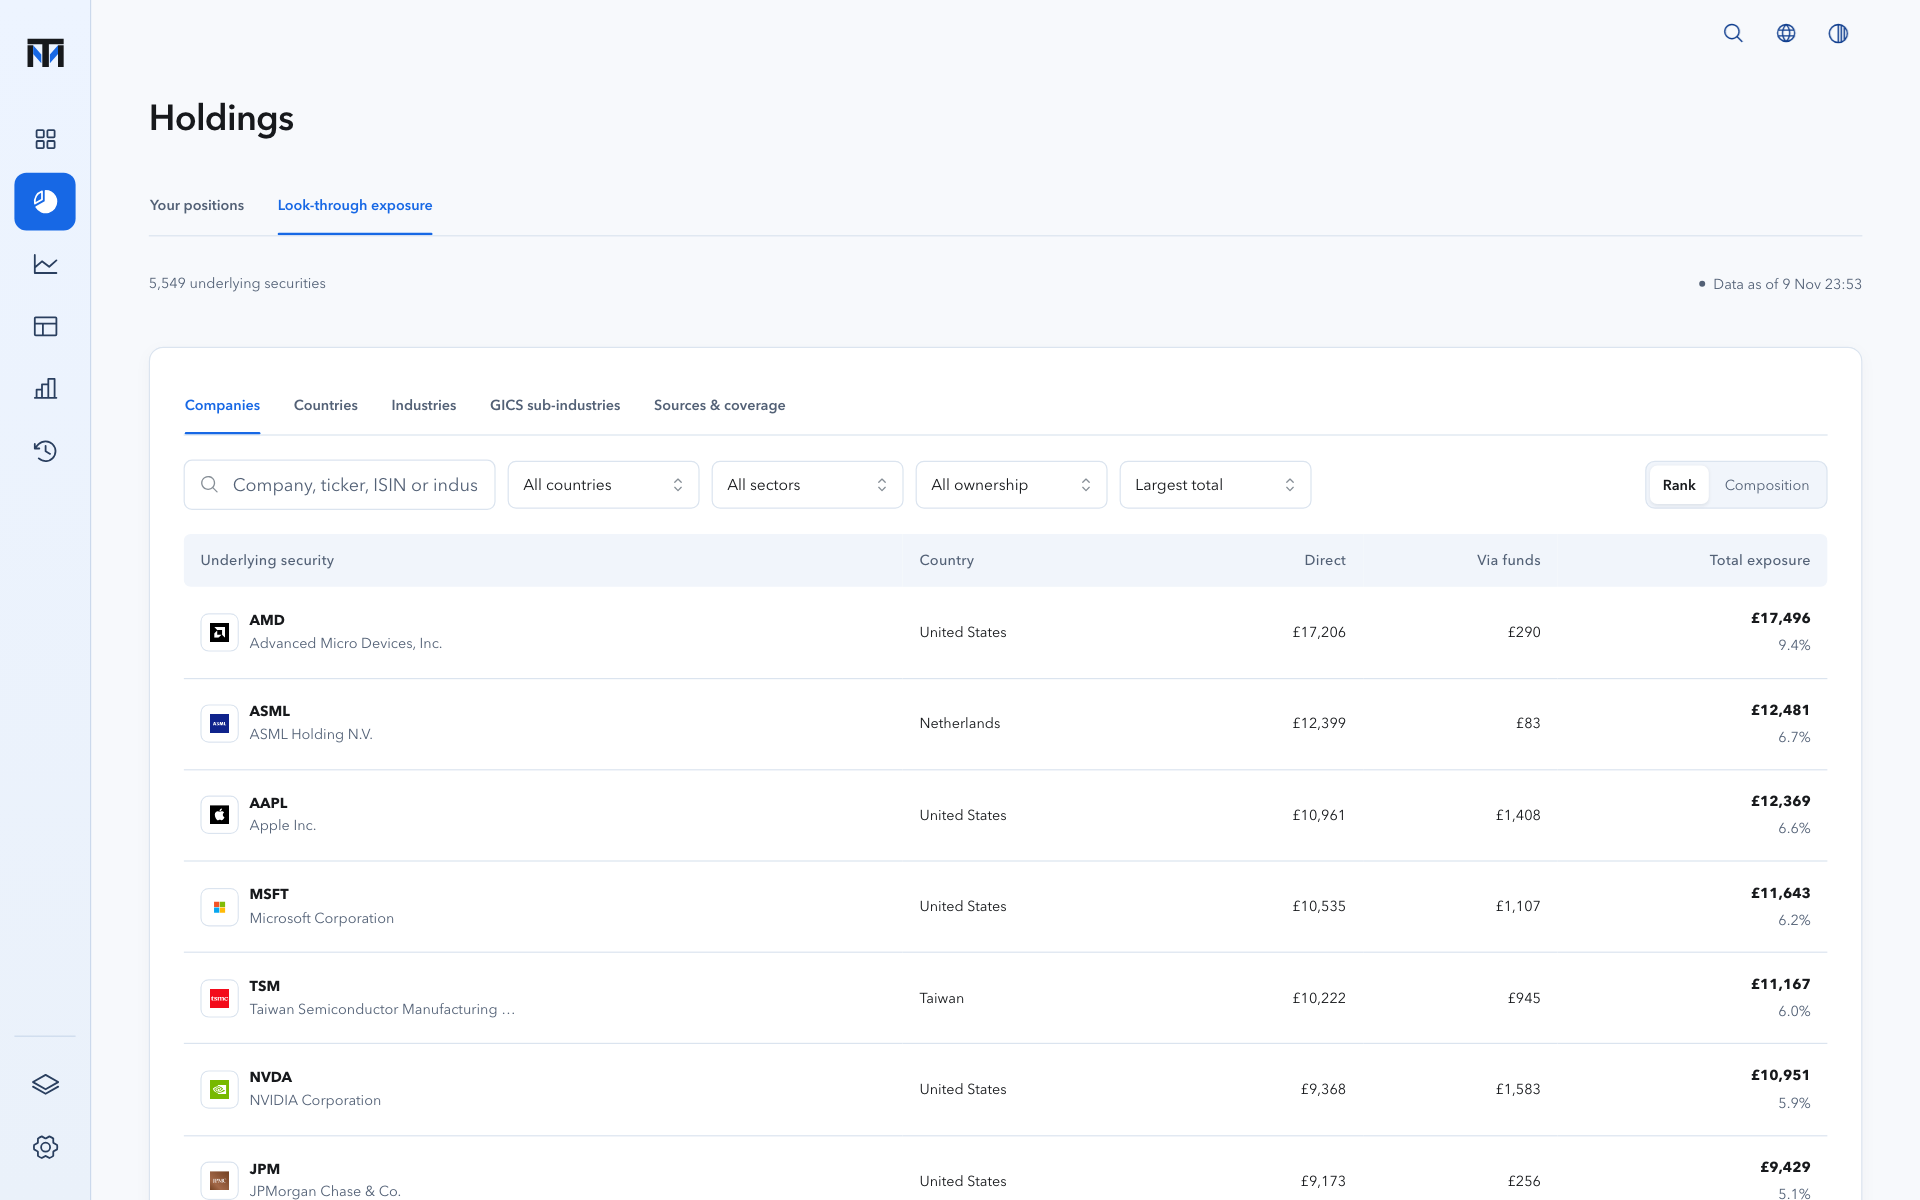
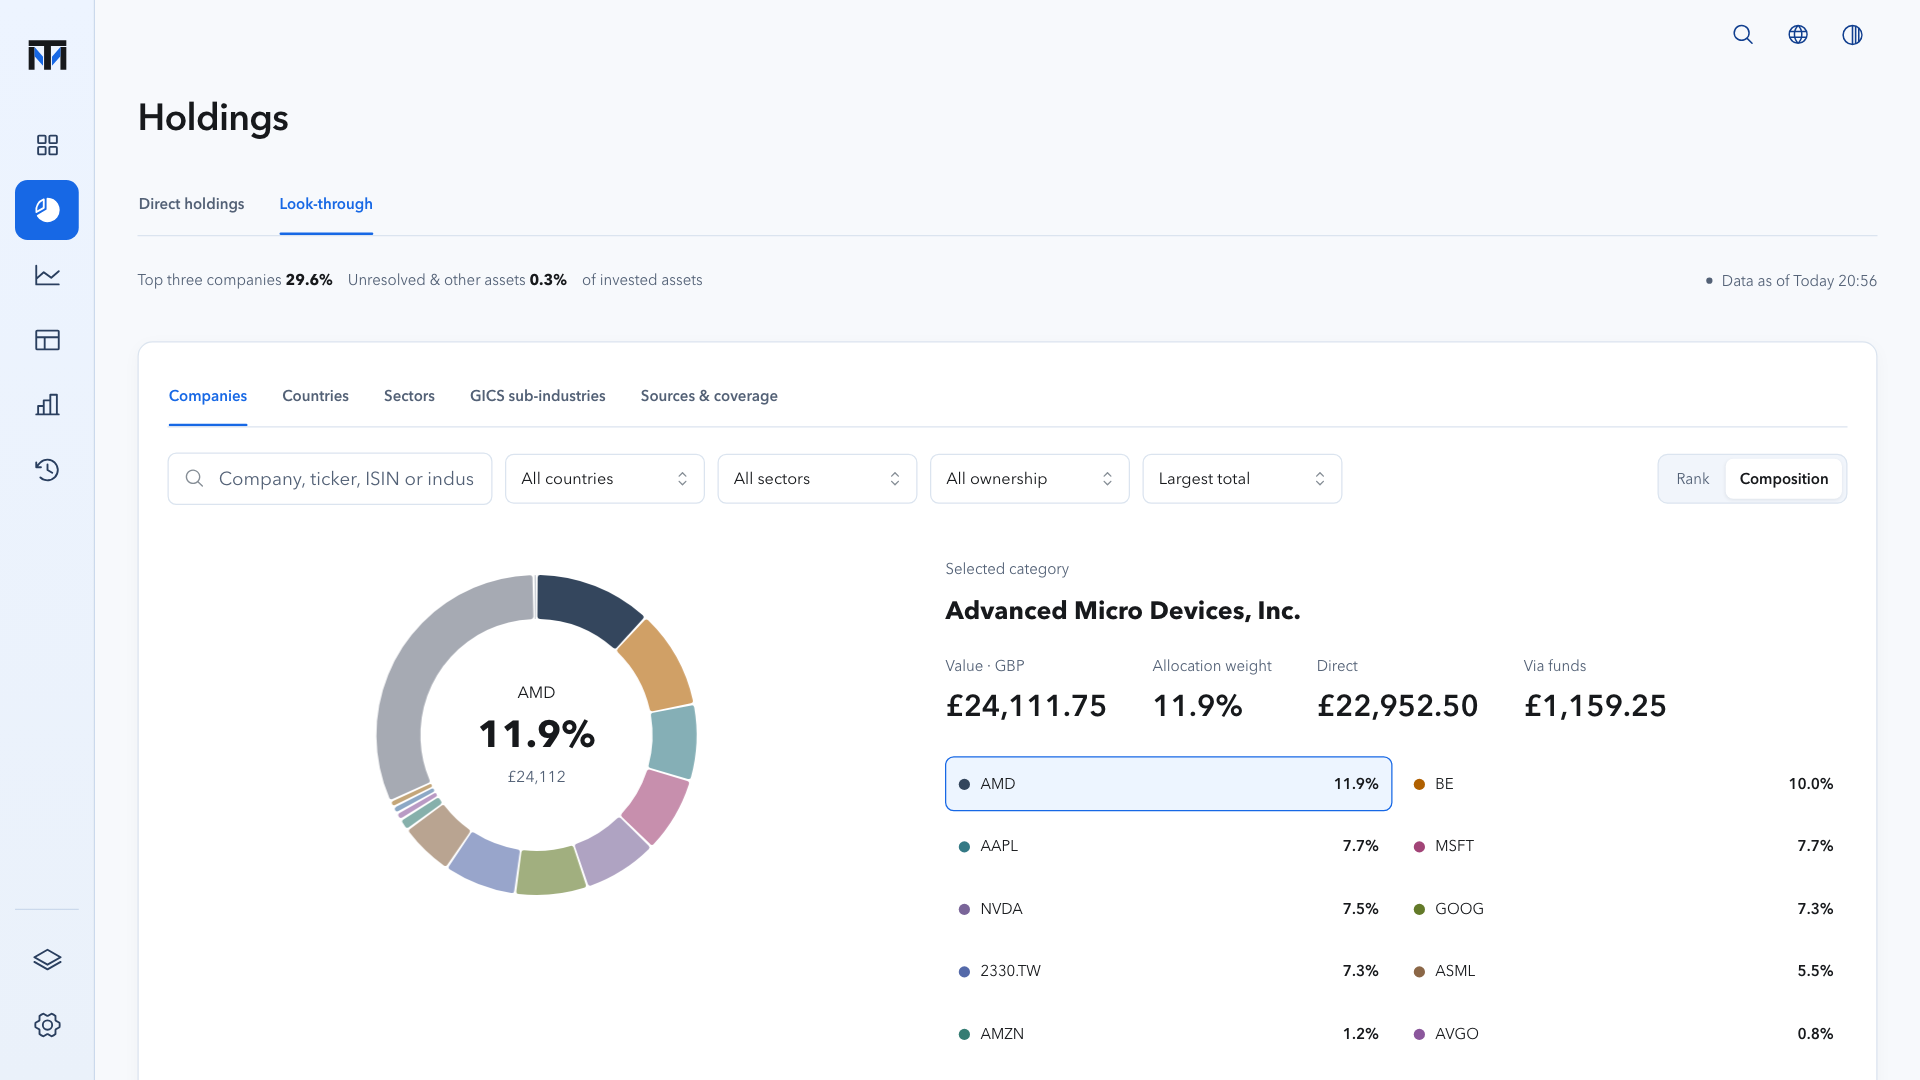
Refresh the README for the current workspace (#254)
## Summary

Bring the README up to date with the current workspace and replace its
screenshots.

- **Features:** Markets now covers global and regional indices, the
world map of today's moves with each market's contribution to MSCI ACWI,
and sector maps for major markets. Research covers stocks, funds and
indices in one research list, with holdings overlap, tracking difference
and US peer ETFs for funds. Investment review names its recent
decisions, moves without a trade, high cash and weight drift. Returns
mention drawdowns and the benchmark.
- **Mac App:** step 4 points to **Workspace settings**, where a new App
workspace connects its accounts.
- **Sources:** SEC filings and ETF issuers are named as research
sources, and Alpaca and EODHD as optional market data. The licence
notice lists them, and [Privacy](PRIVACY.md) now lists what EODHD
receives (its key and index symbols), as it already did for Alpaca.
- **Links:** the research row covers stocks, funds and indices, and a
new row points to ETF coverage.
- **Screenshots:** five new 1920 × 1080 captures of the current
interface: the overview over one year, Markets → Global → Sectors,
look-through by company as a composition ring, AMD price and technicals
with the hypothetical buys marked, and Bloom Energy's valuation
scenarios. `sectors-overview.png` and `research-overview.png` are
replaced by `markets-sectors.png` and `research-technicals.png`.

## Verification

- Screenshots come from a new broker-only preview
[…]

diff --git a/README.md b/README.md
@@ -8,8 +8,8 @@
 <h3 align="center">Your portfolio, explained.</h3>
 
 <p align="center">
-  A private, read-only investment workspace for Trading 212.<br>
-  See what changed, look beneath every fund, follow today's sectors and keep research beside your holdings.
+  A private, read-only investment workspace for Trading 212, in English or Chinese.<br>
+  See what changed, look beneath every fund, follow markets around the world and keep research beside your holdings.
 </p>
 
 <p align="center">
@@ -27,32 +27,36 @@
 </p>
 
 <p align="center">
-  <img src="docs/assets/workspace-overview.png" alt="Trading Max overview: account value, period net P&L, today's US sectors and the holdings panel" width="100%">
+  <img src="docs/assets/workspace-overview.png" alt="Trading Max overview: account value, a year of period net P&L, today's US sector map and the holdings panel" width="100%">
 </p>
 
 ## What you get
 
-- **Results, not deposits.** Investment results stay separate from money moving
-  in and out, for Invest and Stocks ISA together or one account at a time.
-- **Markets and indices.** Global and regional indices, each with a research
-  page for its history, constituents, breadth and the funds that track it, plus
-  sector maps sized by index weight and coloured by the session's move, with
-  your own exposure beside each sector.
+- **Results, not deposits.** Net P&L and returns stay separate from money moving
+  in and out, for Invest and Stocks ISA together or one account at a time, with
+  drawdowns and a benchmark beside them.
+- **Markets worldwide.** Global and regional indices, a world map of today's
+  moves with each market's contribution to MSCI ACWI, and sector maps for major
+  markets with breadth and your own exposure in each sector.
 - **Look-through.** Your direct shares combined with the constituents ETF issuers
   publish: the companies, sectors and countries you actually own, and where they
   overlap.
-- **Research beside your holdings.** Up to seven views per stock or fund, from the
-  business and its financials to price, estimates, valuation scenarios, options
-  and your journal. Your buys, sells and trims sit on the charts.
-- **Decision review.** Past trades set against what happened next.
+- **Research beside your holdings.** Stocks, funds and indices share one
+  research list: financials, price and technicals, estimates, valuation
+  scenarios, options and your journal. Funds add holdings overlap, tracking
+  difference and US peer ETFs; indices add constituents, breadth and the funds
+  that track them. Your trades sit on the charts.
+- **Investment review.** Your recent buys and sells set against what happened
+  next, plus large moves without a trade, cash that stayed high and drifting
+  weights.
 
 <p align="center">
-  <img src="docs/assets/sectors-overview.png" alt="US sector map with the Industrials detail: intraday path, breadth, leader and your exposure" width="49%">
-  <img src="docs/assets/holdings-exposure.png" alt="Look-through by company, split into direct holdings and holdings via funds" width="49%">
+  <img src="docs/assets/markets-sectors.png" alt="Markets, Global sectors: MSCI index cards, a sector map sized by weight and the Information Technology detail with its intraday path and your exposure" width="49%">
+  <img src="docs/assets/holdings-exposure.png" alt="Look-through by company as a composition ring, with AMD's value held directly and via funds" width="49%">
 </p>
 <p align="center">
-  <img src="docs/assets/research-overview.png" alt="Company research: three-month price history, technical score and operating facts" width="49%">
-  <img src="docs/assets/research-valuation.png" alt="Valuation scenarios compared with the current price, with editable assumptions" width="49%">
+  <img src="docs/assets/research-technicals.png" alt="AMD price and technicals: a year of daily candles with your buys marked beneath, and its technical score" width="49%">
+  <img src="docs/assets/research-valuation.png" alt="Bloom Energy valuation: bear, base and bull scenarios against the current price, with editable assumptions" width="49%">
 </p>
 
 <p align="center"><sub>Screenshots use a hypothetical portfolio. Market and company data come from real providers and show dated examples, not live quotes.</sub></p>
@@ -66,8 +70,8 @@
 2. Open it and drag **Trading Max** to Applications.
 3. Start a local workspace, connect to your own Trading Max service over HTTPS,
    or open the demo with synthetic data.
-4. Add your read-only Trading 212 API keys in **Settings**, run the first sync
-   and check the totals against Trading 212.
+4. In **Workspace settings**, add your read-only Trading 212 API keys, run the
+   first sync and check the totals against Trading 212.
 
 Updates install from **App Settings → About & updates**. See the
 [desktop guide](docs/installation/desktop-onboarding.md).
@@ -98,16 +102,17 @@ covers background services, updates and backups.
   failed data is disclosed, never papered over.
 - **AI optional.** Analytics and research work without a model key.
 
-Trading 212 supplies account data; Yahoo-compatible market data and disclosure
-filings supply research. See [Privacy](PRIVACY.md) and
-[data conventions](docs/guides/data-and-metrics.md).
+Trading 212 supplies account data. Yahoo-compatible market data, SEC filings
+and ETF issuers supply research; Alpaca and EODHD can add more market data.
+See [Privacy](PRIVACY.md) and [data conventions](docs/guides/data-and-metrics.md).
 
 ## Learn more
 
 | I want to… | Start here |
 |---|---|
 | Understand my portfolio | [Portfolio guide](docs/guides/portfolio.md) |
-| Research a company or build a valuation | [Research guide](docs/guides/research.md) |
+| Research a stock, fund or index | [Research guide](docs/guides/research.md) |
+| See which funds are looked through | [ETF coverage](docs/guides/etf-coverage.md) |
 | Install, update or recover the App | [Desktop guide](docs/installation/desktop-updates.md) |
 | Understand the architecture or API | [Documentation index](docs/README.md) |
 | Get help or contribute | [Support](SUPPORT.md) · [Contributing](CONTRIBUTING.md) |
@@ -117,6 +122,7 @@ filings supply research. See [Privacy](PRIVACY.md) and
 
 Trading Max is open source under the [Apache License 2.0](LICENSE). It is an
 independent project, not affiliated with or endorsed by Trading 212, Yahoo,
-Bloomberg/OpenFIGI, ETF issuers or model providers, and nothing here is
-investment advice. See [third-party notices](THIRD_PARTY_NOTICES.md) and
+Alpaca, EODHD, Bloomberg/OpenFIGI, index providers, ETF issuers or model
+providers, and nothing here is investment advice. See
+[third-party notices](THIRD_PARTY_NOTICES.md) and
 [trademarks](TRADEMARKS.md).

diff --git a/PRIVACY.md b/PRIVACY.md
@@ -30,6 +30,8 @@ also uses built-in public providers when the user requests or refreshes data:
   and requested time windows for US market prices and account value
   reconstruction; its market-data requests include no orders, account
   quantities or balances;
+- optionally enabled EODHD receives its API key and index symbols for daily
+  index history;
 - public filing and issuer endpoints receive document requests, including
   SEC EDGAR and supported issuer or filing mirrors;
 - server-proxied company-logo services receive a ticker or domain request;
